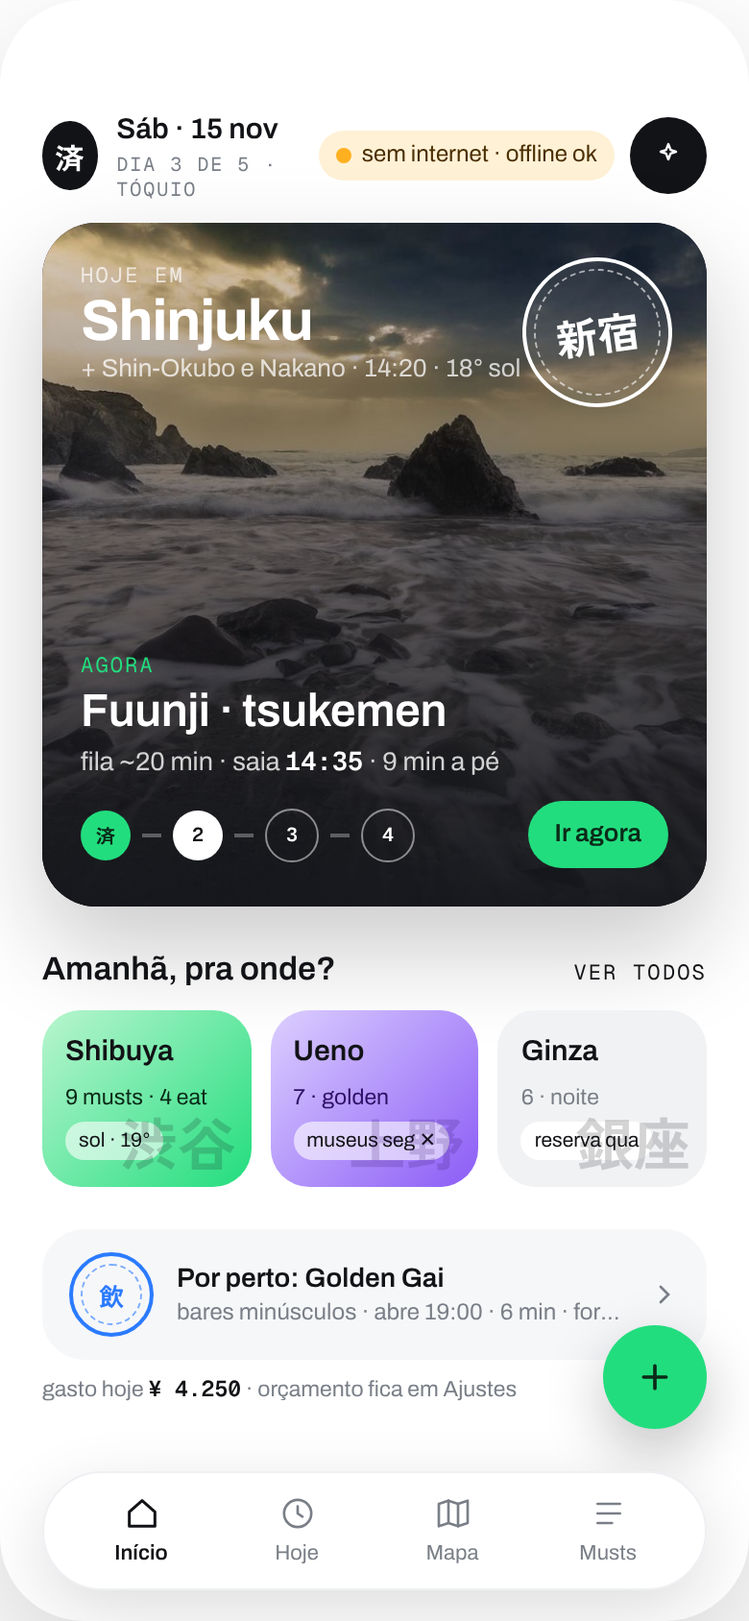
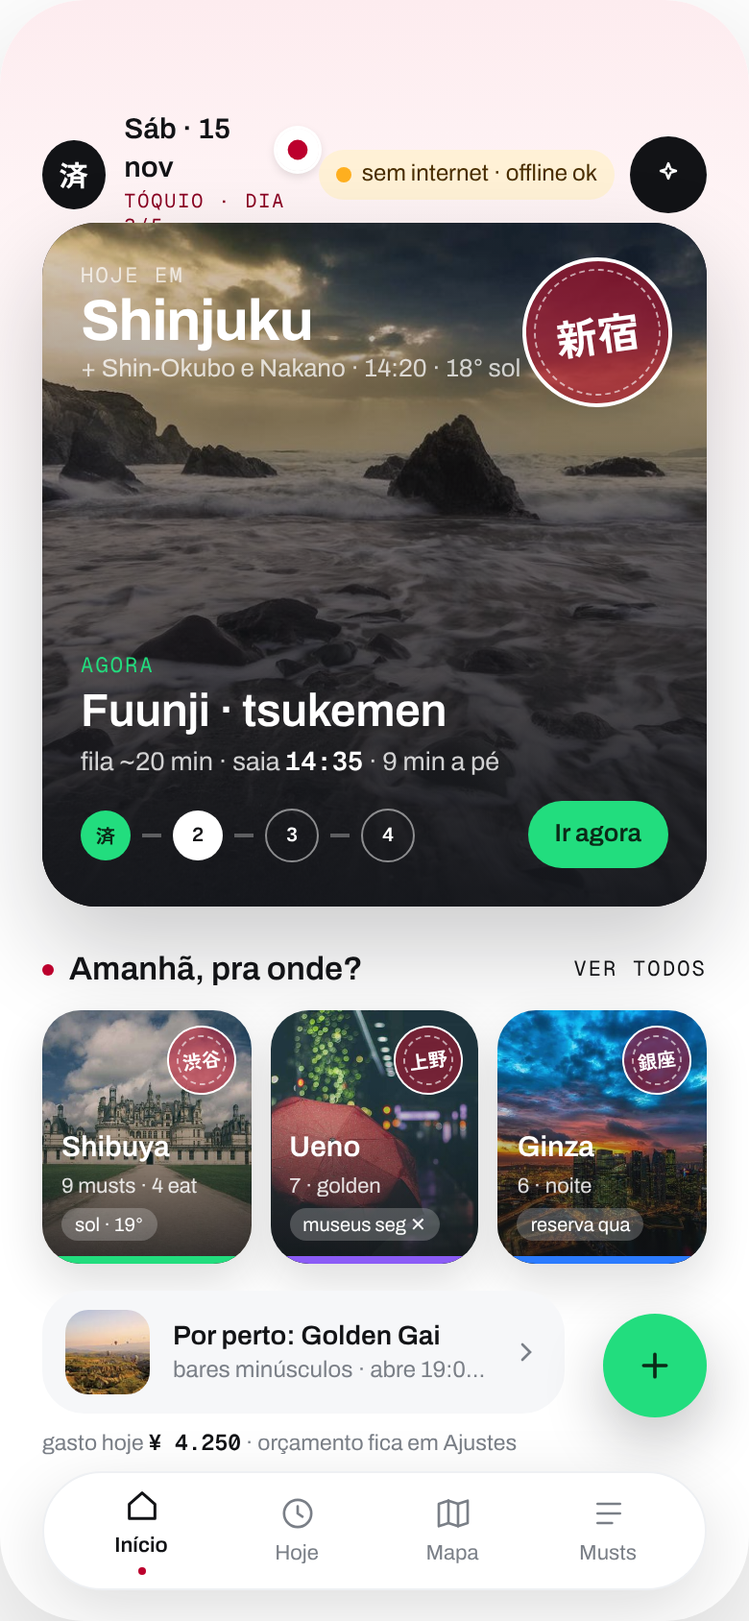
Design e prompts 19–20: fotos do Google, tema da viagem e premissa de dados
- CLAUDE.md: premissa "visual e econômico em dados" e tema da viagem (bandeira + tom do país).
- Prompt 18: card de bairro com foto; prompt 19 (foto do Google por lugar); prompt 20 (TripTheme).
- Telas Home6 (Japão) atualizada e Home6BH (Brasil).

Claude-Session: https://claude.ai/code/session_01JHY7upBQnLoCSWhe5K95pv

diff --git a/design/screens/Home6.html b/design/screens/Home6.html
@@ -2,7 +2,7 @@
 <html lang="pt-BR">
 <head>
 <meta charset="utf-8">
-<title>Must — Início (objetivo, por bairro)</title>
+<title>Must — Início · tema Japão</title>
 
 <link rel="stylesheet" href="must-light.css"><style>html,body{background:#EEF0F3}body{display:flex;justify-content:center;padding:24px 0}.app{box-shadow:0 30px 80px rgba(0,0,0,.18);border-radius:44px}</style>
 </head>
@@ -15,15 +15,17 @@ body{margin:0;background:#fff}
 .dayc{position:absolute;left:22px;right:22px;border-radius:28px;overflow:hidden;color:#fff;box-shadow:0 22px 50px rgba(18,19,22,.22)}
 .stp{width:26px;height:26px;border-radius:50%;display:flex;align-items:center;justify-content:center;font-family:'Geist Mono',monospace;font-size:10px;font-weight:700;flex-shrink:0}
 .nb{flex:1;border-radius:20px;padding:12px;display:flex;flex-direction:column;gap:6px;text-decoration:none;color:#121316;position:relative;overflow:hidden;min-height:92px;box-sizing:border-box}
+.nbp{flex:1;height:132px;border-radius:20px;position:relative;overflow:hidden;text-decoration:none;box-shadow:0 10px 24px rgba(18,19,22,.14)}
 .nb .k{position:absolute;right:8px;bottom:4px;font-family:'Zen Kaku Gothic New',sans-serif;font-weight:700;font-size:30px;opacity:.18}
 </style>
 
-<div class="app">
+<div class="app trip-jp">
+  <div class="trip-wash"></div>
   <!-- topo enxuto -->
   <div style="position:absolute;left:22px;right:22px;top:58px;display:flex;justify-content:space-between;align-items:center">
     <div style="display:flex;align-items:center;gap:10px">
       <div style="width:36px;height:36px;border-radius:50%;background:#121316;display:flex;align-items:center;justify-content:center"><span class="jp" style="color:#fff;font-size:15px;font-weight:700">済</span></div>
-      <div style="display:flex;flex-direction:column;gap:1px"><span style="font-size:15px;font-weight:600">Sáb · 15 nov</span><span class="micro" style="font-size:10px">dia 3 de 5 · Tóquio</span></div>
+      <div style="display:flex;flex-direction:column;gap:1px"><span style="font-size:15px;font-weight:600;display:flex;align-items:center;gap:6px">Sáb · 15 nov <svg class="flag" viewBox="0 0 22 22" aria-label="Japão"><rect width="22" height="22" fill="#fff"/><circle cx="11" cy="11" r="5.2" fill="#BC002D"/></svg></span><span class="micro" style="font-size:10px;color:var(--trip-ink)">Tóquio · dia 3/5</span></div>
     </div>
     <div style="display:flex;gap:8px;align-items:center">
       <span class="tag" style="background:#FFF1D6;color:#4A2E00"><span class="dot" style="background:#FFB020"></span>sem internet · offline ok</span>
@@ -36,7 +38,7 @@ body{margin:0;background:#fff}
     <span class="photo" style="background-image:url('https://picsum.photos/seed/must-shinjuku-night/800/700');filter:saturate(.8) contrast(1.05)"></span>
     <span style="position:absolute;inset:0;background:linear-gradient(180deg,rgba(21,23,28,.15) 0%,rgba(21,23,28,.55) 45%,rgba(21,23,28,.96) 100%)"></span>
     <!-- selo do bairro -->
-    <span class="stamp" style="position:absolute;right:18px;top:18px;width:74px;height:74px;color:#fff;font-size:22px;transform:rotate(-8deg);background:rgba(255,255,255,.08)">新宿</span>
+    <span class="stamp" style="position:absolute;right:18px;top:18px;width:74px;height:74px;color:#fff;font-size:22px;transform:rotate(-8deg);background:rgba(200,16,46,.55);border-color:#fff">新宿</span>
     <div style="position:absolute;left:20px;top:20px;display:flex;flex-direction:column;gap:2px">
       <span class="micro" style="color:rgba(255,255,255,.7)">Hoje em</span>
       <span style="font-size:30px;font-weight:700;letter-spacing:-.02em;line-height:1">Shinjuku</span>
@@ -61,25 +63,25 @@ body{margin:0;background:#fff}
   </div>
 
   <!-- bairros: planejar por região -->
-  <div style="position:absolute;left:22px;right:22px;top:494px;display:flex;justify-content:space-between;align-items:baseline"><span style="font-size:17px;font-weight:600">Amanhã, pra onde?</span><a href="Bairros.html" class="micro" style="text-decoration:none;color:#121316">ver todos</a></div>
+  <div style="position:absolute;left:22px;right:22px;top:494px;display:flex;justify-content:space-between;align-items:baseline"><span style="font-size:17px;font-weight:600;display:flex;align-items:center;gap:8px"><span style="width:6px;height:6px;border-radius:50%;background:var(--trip)"></span>Amanhã, pra onde?</span><a href="Bairros.html" class="micro" style="text-decoration:none;color:#121316">ver todos</a></div>
   <div style="position:absolute;left:22px;right:22px;top:526px;display:flex;gap:10px">
-    <a href="Bairros.html" class="nb" style="background:linear-gradient(135deg,#B9F5CF,#22DD7E)"><span class="k">渋谷</span><span style="font-size:15px;font-weight:600">Shibuya</span><span style="font-size:11.5px;color:#0B2A18">9 musts · 4 eat</span><span class="tag" style="align-self:flex-start;background:rgba(255,255,255,.6);font-size:10.5px;padding:3px 7px">sol · 19°</span></a>
-    <a href="Bairros.html" class="nb" style="background:linear-gradient(135deg,#DCCFFF,#8B5CF6)"><span class="k" style="color:#2E1065">上野</span><span style="font-size:15px;font-weight:600">Ueno</span><span style="font-size:11.5px;color:#2E1065">7 · golden</span><span class="tag" style="align-self:flex-start;background:rgba(255,255,255,.6);font-size:10.5px;padding:3px 7px">museus seg ✕</span></a>
-    <a href="Bairros.html" class="nb" style="background:#F1F2F4"><span class="k">銀座</span><span style="font-size:15px;font-weight:600">Ginza</span><span style="font-size:11.5px;color:#7A7F87">6 · noite</span><span class="tag" style="align-self:flex-start;background:#fff;font-size:10.5px;padding:3px 7px">reserva qua</span></a>
+    <a href="Bairros.html" class="nbp"><span class="photo" style="background-image:url('https://picsum.photos/seed/must-shibuya-crossing/400/500');filter:saturate(.9)"></span><span style="position:absolute;inset:0;background:linear-gradient(180deg,rgba(18,19,22,0) 30%,rgba(18,19,22,.82) 100%)"></span><span style="position:absolute;left:0;right:0;bottom:0;height:4px;background:#22DD7E"></span><span class="stamp" style="position:absolute;right:8px;top:8px;width:34px;height:34px;color:#fff;font-size:10px;border-width:1.8px;transform:rotate(-8deg);background:rgba(200,16,46,.5)">渋谷</span><span style="position:absolute;left:10px;right:8px;bottom:12px;display:flex;flex-direction:column;gap:2px;color:#fff"><span style="font-size:15px;font-weight:600">Shibuya</span><span style="font-size:11px;opacity:.85">9 musts · 4 eat</span><span class="tag" style="align-self:flex-start;background:rgba(255,255,255,.22);color:#fff;font-size:10px;padding:2px 7px;margin-top:3px">sol · 19°</span></span></a>
+    <a href="Bairros.html" class="nbp"><span class="photo" style="background-image:url('https://picsum.photos/seed/must-ueno-park/400/500');filter:saturate(.9)"></span><span style="position:absolute;inset:0;background:linear-gradient(180deg,rgba(18,19,22,0) 30%,rgba(18,19,22,.82) 100%)"></span><span style="position:absolute;left:0;right:0;bottom:0;height:4px;background:#8B5CF6"></span><span class="stamp" style="position:absolute;right:8px;top:8px;width:34px;height:34px;color:#fff;font-size:10px;border-width:1.8px;transform:rotate(-8deg);background:rgba(200,16,46,.5)">上野</span><span style="position:absolute;left:10px;right:8px;bottom:12px;display:flex;flex-direction:column;gap:2px;color:#fff"><span style="font-size:15px;font-weight:600">Ueno</span><span style="font-size:11px;opacity:.85">7 · golden</span><span class="tag" style="align-self:flex-start;background:rgba(255,255,255,.22);color:#fff;font-size:10px;padding:2px 7px;margin-top:3px">museus seg ✕</span></span></a>
+    <a href="Bairros.html" class="nbp"><span class="photo" style="background-image:url('https://picsum.photos/seed/must-ginza-street/400/500');filter:saturate(.9)"></span><span style="position:absolute;inset:0;background:linear-gradient(180deg,rgba(18,19,22,0) 30%,rgba(18,19,22,.82) 100%)"></span><span style="position:absolute;left:0;right:0;bottom:0;height:4px;background:#2B7BFF"></span><span class="stamp" style="position:absolute;right:8px;top:8px;width:34px;height:34px;color:#fff;font-size:10px;border-width:1.8px;transform:rotate(-8deg);background:rgba(200,16,46,.5)">銀座</span><span style="position:absolute;left:10px;right:8px;bottom:12px;display:flex;flex-direction:column;gap:2px;color:#fff"><span style="font-size:15px;font-weight:600">Ginza</span><span style="font-size:11px;opacity:.85">6 · noite</span><span class="tag" style="align-self:flex-start;background:rgba(255,255,255,.22);color:#fff;font-size:10px;padding:2px 7px;margin-top:3px">reserva qua</span></span></a>
   </div>
 
   <!-- uma linha de por perto -->
-  <a href="Descobrir.html" class="card" style="position:absolute;left:22px;right:22px;top:640px;padding:12px 14px;display:flex;align-items:center;gap:12px;text-decoration:none;color:#121316;background:#F6F7F9">
-    <span class="stamp" style="width:40px;height:40px;color:#2B7BFF;font-size:13px;flex-shrink:0">飲</span>
+  <a href="Descobrir.html" class="card" style="position:absolute;left:22px;top:672px;right:96px;padding:10px 12px;display:flex;align-items:center;gap:12px;text-decoration:none;color:#121316;background:#F6F7F9">
+    <span style="width:44px;height:44px;border-radius:12px;position:relative;overflow:hidden;flex-shrink:0"><span class="photo" style="background-image:url('https://picsum.photos/seed/must-goldengai/120/120')"></span></span>
     <div style="flex:1;min-width:0;display:flex;flex-direction:column;gap:1px"><span style="font-size:14px;font-weight:600">Por perto: Golden Gai</span><span style="font-size:12px;color:#7A7F87;white-space:nowrap;overflow:hidden;text-overflow:ellipsis">bares minúsculos · abre 19:00 · 6 min · fora do board</span></div>
     <svg aria-hidden="true" width="16" height="16" viewBox="0 0 24 24" fill="none" stroke="#7A7F87" stroke-width="2" stroke-linecap="round"><path d="M9 6l6 6-6 6"/></svg>
   </a>
-  <span style="position:absolute;left:22px;right:22px;top:716px;text-align:left;font-size:11.5px;color:#7A7F87;right:96px">gasto hoje <b class="mono" style="color:#121316">¥ 4.250</b> · orçamento fica em Ajustes</span>
+  <span style="position:absolute;left:22px;right:22px;top:744px;text-align:left;font-size:11.5px;color:#7A7F87;right:96px">gasto hoje <b class="mono" style="color:#121316">¥ 4.250</b> · orçamento fica em Ajustes</span>
 
-  <a href="ColarTexto.html" class="fab" aria-label="Adicionar" style="background:#22DD7E;bottom:100px"><svg aria-hidden="true" width="20" height="20" viewBox="0 0 24 24" fill="none" stroke="#0B2A18" stroke-width="2.2" stroke-linecap="round"><path d="M12 5v14M5 12h14"/></svg></a>
+  <a href="ColarTexto.html" class="fab" aria-label="Adicionar" style="background:#22DD7E;bottom:106px"><svg aria-hidden="true" width="20" height="20" viewBox="0 0 24 24" fill="none" stroke="#0B2A18" stroke-width="2.2" stroke-linecap="round"><path d="M12 5v14M5 12h14"/></svg></a>
 
   <nav class="tabs">
-    <a href="Home6.html" class="tab tab-on"><svg aria-hidden="true" width="20" height="20" viewBox="0 0 24 24" fill="none" stroke="currentColor" stroke-width="1.8" stroke-linecap="round" stroke-linejoin="round"><path d="M4 11l8-7 8 7v9H4z"/></svg>Início</a>
+    <a href="Home6.html" class="tab tab-on"><svg aria-hidden="true" width="20" height="20" viewBox="0 0 24 24" fill="none" stroke="currentColor" stroke-width="1.8" stroke-linecap="round" stroke-linejoin="round"><path d="M4 11l8-7 8 7v9H4z"/></svg>Início<span class="tdot"></span></a>
     <a href="Hoje.html" class="tab"><svg aria-hidden="true" width="20" height="20" viewBox="0 0 24 24" fill="none" stroke="currentColor" stroke-width="1.6" stroke-linecap="round" stroke-linejoin="round"><circle cx="12" cy="12" r="8.5"/><path d="M12 7.5V12l3 2"/></svg>Hoje</a>
     <a href="Mapa.html" class="tab"><svg aria-hidden="true" width="20" height="20" viewBox="0 0 24 24" fill="none" stroke="currentColor" stroke-width="1.6" stroke-linecap="round" stroke-linejoin="round"><path d="M3 6l6-2 6 2 6-2v14l-6 2-6-2-6 2z"/><path d="M9 4v14M15 6v14"/></svg>Mapa</a>
     <a href="Musts.html" class="tab"><svg aria-hidden="true" width="20" height="20" viewBox="0 0 24 24" fill="none" stroke="currentColor" stroke-width="1.6" stroke-linecap="round" stroke-linejoin="round"><path d="M5 6h14M5 12h14M5 18h9"/></svg>Musts</a>

diff --git a/design/screens/Home6BH.html b/design/screens/Home6BH.html
@@ -1,0 +1,92 @@
+<!doctype html>
+<html lang="pt-BR">
+<head>
+<meta charset="utf-8">
+<title>Must — Início · tema Brasil (BH)</title>
+
+<link rel="stylesheet" href="must-light.css"><style>html,body{background:#EEF0F3}body{display:flex;justify-content:center;padding:24px 0}.app{box-shadow:0 30px 80px rgba(0,0,0,.18);border-radius:44px}</style>
+</head>
+<body>
+
+
+<link rel="stylesheet" href="https://fonts.googleapis.com/css2?family=Archivo:wdth,wght@62..125,100..900&amp;family=Instrument+Serif:ital@0;1&amp;family=Geist+Mono:wght@400;600&amp;family=Zen+Kaku+Gothic+New:wght@500;700&amp;display=swap">
+<style>
+body{margin:0;background:#fff}
+.dayc{position:absolute;left:22px;right:22px;border-radius:28px;overflow:hidden;color:#fff;box-shadow:0 22px 50px rgba(18,19,22,.22)}
+.stp{width:26px;height:26px;border-radius:50%;display:flex;align-items:center;justify-content:center;font-family:'Geist Mono',monospace;font-size:10px;font-weight:700;flex-shrink:0}
+.nb{flex:1;border-radius:20px;padding:12px;display:flex;flex-direction:column;gap:6px;text-decoration:none;color:#121316;position:relative;overflow:hidden;min-height:92px;box-sizing:border-box}
+.nbp{flex:1;height:132px;border-radius:20px;position:relative;overflow:hidden;text-decoration:none;box-shadow:0 10px 24px rgba(18,19,22,.14)}
+.nb .k{position:absolute;right:8px;bottom:4px;font-family:'Zen Kaku Gothic New',sans-serif;font-weight:700;font-size:30px;opacity:.18}
+</style>
+
+<div class="app trip-br">
+  <div class="trip-wash"></div>
+  <!-- topo enxuto -->
+  <div style="position:absolute;left:22px;right:22px;top:58px;display:flex;justify-content:space-between;align-items:center">
+    <div style="display:flex;align-items:center;gap:10px">
+      <div style="width:36px;height:36px;border-radius:50%;background:#121316;display:flex;align-items:center;justify-content:center"><span class="jp" style="color:#fff;font-size:15px;font-weight:700">済</span></div>
+      <div style="display:flex;flex-direction:column;gap:1px"><span style="font-size:15px;font-weight:600;display:flex;align-items:center;gap:6px">Sáb · 7 nov <svg class="flag" viewBox="0 0 22 22" aria-label="Brasil"><rect width="22" height="22" fill="#009C3B"/><path d="M11 3.5 L 19.5 11 L 11 18.5 L 2.5 11 Z" fill="#FFDF00"/><circle cx="11" cy="11" r="4.4" fill="#002776"/><path d="M6.8 10.2 C 9.5 9.4, 12.8 9.8, 15.2 11.6" stroke="#fff" stroke-width=".9" fill="none"/></svg></span><span class="micro" style="font-size:10px;color:var(--trip-ink)">Belo Horizonte · sábado</span></div>
+    </div>
+    <div style="display:flex;gap:8px;align-items:center">
+      <span class="tag" style="background:#fff;border:1px solid #EEF0F3"><span class="dot" style="background:#22DD7E"></span>online</span>
+      <a href="Assistente.html" class="ic ic-dark" aria-label="Assistente"><svg aria-hidden="true" width="16" height="16" viewBox="0 0 24 24" fill="none" stroke="currentColor" stroke-width="1.8" stroke-linecap="round" stroke-linejoin="round"><path d="M12 3l1.8 4.6L18 9l-4.2 1.4L12 15l-1.8-4.6L6 9l4.2-1.4z"/></svg></a>
+    </div>
+  </div>
+
+  <!-- CARD DO DIA: o que fazer agora -->
+  <div class="dayc" style="top:116px;height:356px;background:#15171C">
+    <span class="photo" style="background-image:url('https://picsum.photos/seed/must-savassi/800/700');filter:saturate(.8) contrast(1.05)"></span>
+    <span style="position:absolute;inset:0;background:linear-gradient(180deg,rgba(21,23,28,.15) 0%,rgba(21,23,28,.55) 45%,rgba(21,23,28,.96) 100%)"></span>
+    <!-- selo do bairro -->
+    <span class="stamp" style="position:absolute;right:18px;top:18px;width:74px;height:74px;color:#fff;font-size:22px;transform:rotate(-8deg);background:rgba(0,105,42,.55);border-color:#fff"><span style="display:flex;flex-direction:column;align-items:center;gap:2px;font-family:Archivo;font-weight:800;letter-spacing:.06em"><span style="font-size:17px">SAV</span><span style="font-size:8px;letter-spacing:.2em">BH · 1897</span></span></span>
+    <div style="position:absolute;left:20px;top:20px;display:flex;flex-direction:column;gap:2px">
+      <span class="micro" style="color:rgba(255,255,255,.7)">Hoje em</span>
+      <span style="font-size:30px;font-weight:700;letter-spacing:-.02em;line-height:1">Savassi</span>
+      <span style="font-size:13px;color:rgba(255,255,255,.75)">+ Lourdes e Funcionários · 14:20 · 27° sol</span>
+    </div>
+    <div style="position:absolute;left:20px;right:20px;bottom:20px;display:flex;flex-direction:column;gap:12px">
+      <div style="display:flex;flex-direction:column;gap:4px">
+        <span class="micro" style="color:#22DD7E">Agora</span>
+        <span style="font-size:24px;font-weight:600;letter-spacing:-.01em;line-height:1.1">Café com Letras</span>
+        <span style="font-size:13.5px;color:rgba(255,255,255,.8)">livraria e café · saia <b class="mono" style="color:#fff">14:35</b> · 6 min a pé</span>
+      </div>
+      <!-- progresso em selos -->
+      <div style="display:flex;align-items:center;gap:6px">
+        <span class="stp" style="background:#22DD7E;color:#0B2A18;font-family:'Zen Kaku Gothic New'">済</span><span style="width:10px;height:2px;background:rgba(255,255,255,.3)"></span>
+        <span class="stp" style="background:#fff;color:#121316">2</span><span style="width:10px;height:2px;background:rgba(255,255,255,.3)"></span>
+        <span class="stp" style="border:1.5px solid rgba(255,255,255,.5);color:#fff">3</span><span style="width:10px;height:2px;background:rgba(255,255,255,.3)"></span>
+        <span class="stp" style="border:1.5px solid rgba(255,255,255,.5);color:#fff">4</span>
+        <span style="flex:1"></span>
+        <a href="GuiaBairro.html" class="pill pill-green" style="text-decoration:none;padding:9px 14px">Ir agora</a>
+      </div>
+    </div>
+  </div>
+
+  <!-- bairros: planejar por região -->
+  <div style="position:absolute;left:22px;right:22px;top:494px;display:flex;justify-content:space-between;align-items:baseline"><span style="font-size:17px;font-weight:600;display:flex;align-items:center;gap:8px"><span style="width:6px;height:6px;border-radius:50%;background:var(--trip)"></span>Amanhã, pra onde?</span><a href="Bairros.html" class="micro" style="text-decoration:none;color:#121316">ver todos</a></div>
+  <div style="position:absolute;left:22px;right:22px;top:526px;display:flex;gap:10px">
+    <a href="Bairros.html" class="nbp"><span class="photo" style="background-image:url('https://picsum.photos/seed/must-pampulha/400/500');filter:saturate(.9)"></span><span style="position:absolute;inset:0;background:linear-gradient(180deg,rgba(18,19,22,0) 30%,rgba(18,19,22,.82) 100%)"></span><span style="position:absolute;left:0;right:0;bottom:0;height:4px;background:#22DD7E"></span><span class="stamp" style="position:absolute;right:8px;top:8px;width:34px;height:34px;color:#fff;font-size:10px;border-width:1.8px;transform:rotate(-8deg);background:rgba(0,105,42,.5)">PAM</span><span style="position:absolute;left:10px;right:8px;bottom:12px;display:flex;flex-direction:column;gap:2px;color:#fff"><span style="font-size:15px;font-weight:600">Pampulha</span><span style="font-size:11px;opacity:.85">5 musts · Niemeyer</span><span class="tag" style="align-self:flex-start;background:rgba(255,255,255,.22);color:#fff;font-size:10px;padding:2px 7px;margin-top:3px">sol · 28°</span></span></a>
+    <a href="Bairros.html" class="nbp"><span class="photo" style="background-image:url('https://picsum.photos/seed/must-santatereza/400/500');filter:saturate(.9)"></span><span style="position:absolute;inset:0;background:linear-gradient(180deg,rgba(18,19,22,0) 30%,rgba(18,19,22,.82) 100%)"></span><span style="position:absolute;left:0;right:0;bottom:0;height:4px;background:#8B5CF6"></span><span class="stamp" style="position:absolute;right:8px;top:8px;width:34px;height:34px;color:#fff;font-size:10px;border-width:1.8px;transform:rotate(-8deg);background:rgba(0,105,42,.5)">STA</span><span style="position:absolute;left:10px;right:8px;bottom:12px;display:flex;flex-direction:column;gap:2px;color:#fff"><span style="font-size:15px;font-weight:600">Sta. Tereza</span><span style="font-size:11px;opacity:.85">4 · noite</span><span class="tag" style="align-self:flex-start;background:rgba(255,255,255,.22);color:#fff;font-size:10px;padding:2px 7px;margin-top:3px">show sex</span></span></a>
+    <a href="Bairros.html" class="nbp"><span class="photo" style="background-image:url('https://picsum.photos/seed/must-centrobh/400/500');filter:saturate(.9)"></span><span style="position:absolute;inset:0;background:linear-gradient(180deg,rgba(18,19,22,0) 30%,rgba(18,19,22,.82) 100%)"></span><span style="position:absolute;left:0;right:0;bottom:0;height:4px;background:#2B7BFF"></span><span class="stamp" style="position:absolute;right:8px;top:8px;width:34px;height:34px;color:#fff;font-size:10px;border-width:1.8px;transform:rotate(-8deg);background:rgba(0,105,42,.5)">CEN</span><span style="position:absolute;left:10px;right:8px;bottom:12px;display:flex;flex-direction:column;gap:2px;color:#fff"><span style="font-size:15px;font-weight:600">Centro</span><span style="font-size:11px;opacity:.85">6 · mercado</span><span class="tag" style="align-self:flex-start;background:rgba(255,255,255,.22);color:#fff;font-size:10px;padding:2px 7px;margin-top:3px">feira dom</span></span></a>
+  </div>
+
+  <!-- uma linha de por perto -->
+  <a href="Descobrir.html" class="card" style="position:absolute;left:22px;top:672px;right:96px;padding:10px 12px;display:flex;align-items:center;gap:12px;text-decoration:none;color:#121316;background:#F6F7F9">
+    <span style="width:44px;height:44px;border-radius:12px;position:relative;overflow:hidden;flex-shrink:0"><span class="photo" style="background-image:url('https://picsum.photos/seed/must-goldengai/120/120')"></span></span>
+    <div style="flex:1;min-width:0;display:flex;flex-direction:column;gap:1px"><span style="font-size:14px;font-weight:600">Por perto: Mercado Novo</span><span style="font-size:12px;color:#7A7F87;white-space:nowrap;overflow:hidden;text-overflow:ellipsis">bares e lojinhas · aberto · 9 min · no board</span></div>
+    <svg aria-hidden="true" width="16" height="16" viewBox="0 0 24 24" fill="none" stroke="#7A7F87" stroke-width="2" stroke-linecap="round"><path d="M9 6l6 6-6 6"/></svg>
+  </a>
+  <span style="position:absolute;left:22px;right:22px;top:744px;text-align:left;font-size:11.5px;color:#7A7F87;right:96px">gasto hoje <b class="mono" style="color:#121316">R$ 86</b> · orçamento fica em Ajustes</span>
+
+  <a href="ColarTexto.html" class="fab" aria-label="Adicionar" style="background:#22DD7E;bottom:106px"><svg aria-hidden="true" width="20" height="20" viewBox="0 0 24 24" fill="none" stroke="#0B2A18" stroke-width="2.2" stroke-linecap="round"><path d="M12 5v14M5 12h14"/></svg></a>
+
+  <nav class="tabs">
+    <a href="Home6.html" class="tab tab-on"><svg aria-hidden="true" width="20" height="20" viewBox="0 0 24 24" fill="none" stroke="currentColor" stroke-width="1.8" stroke-linecap="round" stroke-linejoin="round"><path d="M4 11l8-7 8 7v9H4z"/></svg>Início<span class="tdot"></span></a>
+    <a href="Hoje.html" class="tab"><svg aria-hidden="true" width="20" height="20" viewBox="0 0 24 24" fill="none" stroke="currentColor" stroke-width="1.6" stroke-linecap="round" stroke-linejoin="round"><circle cx="12" cy="12" r="8.5"/><path d="M12 7.5V12l3 2"/></svg>Hoje</a>
+    <a href="Mapa.html" class="tab"><svg aria-hidden="true" width="20" height="20" viewBox="0 0 24 24" fill="none" stroke="currentColor" stroke-width="1.6" stroke-linecap="round" stroke-linejoin="round"><path d="M3 6l6-2 6 2 6-2v14l-6 2-6-2-6 2z"/><path d="M9 4v14M15 6v14"/></svg>Mapa</a>
+    <a href="Musts.html" class="tab"><svg aria-hidden="true" width="20" height="20" viewBox="0 0 24 24" fill="none" stroke="currentColor" stroke-width="1.6" stroke-linecap="round" stroke-linejoin="round"><path d="M5 6h14M5 12h14M5 18h9"/></svg>Musts</a>
+  </nav>
+</div>
+
+</body>
+</html>

diff --git a/design/screens/must-light.css b/design/screens/must-light.css
@@ -54,3 +54,10 @@ a{color:#1E73FF}a:hover{color:#0F5AD6}
 .stamp::after{content:"";position:absolute;inset:4px;border-radius:50%;border:1px dashed currentColor;opacity:.6}
 .line-chip{display:inline-flex;align-items:center;gap:6px;border-radius:999px;padding:4px 10px 4px 4px;font-size:12px;font-weight:600;color:#121316;background:#fff;border:1px solid #EEF0F3}
 .line-chip i{width:20px;height:20px;border-radius:50%;display:inline-flex;align-items:center;justify-content:center;font-style:normal;font-family:'Geist Mono',monospace;font-size:10px;font-weight:700;color:#fff}
+/* tema da viagem: tom leve do país, sem trocar a identidade (verde/azul/tinta continuam) */
+.trip-jp{--trip:#BC002D;--trip-ink:#8A0021;--trip-soft:#FDECEF;--trip-soft2:#FFF6F7;--trip-stamp:#C8102E}
+.trip-br{--trip:#009C3B;--trip-ink:#00692A;--trip-soft:#E6F6EC;--trip-soft2:#FFF9DB;--trip-stamp:#00692A}
+.trip-wash{position:absolute;left:0;right:0;top:0;height:300px;background:linear-gradient(180deg,var(--trip-soft) 0%,var(--trip-soft2) 45%,rgba(255,255,255,0) 100%);pointer-events:none}
+.flag{width:22px;height:22px;border-radius:50%;overflow:hidden;box-shadow:0 0 0 1.5px #fff,0 2px 6px rgba(18,19,22,.18);flex-shrink:0;display:inline-block}
+.tab-on .tdot{display:block}
+.tdot{display:none;width:4px;height:4px;border-radius:50%;background:var(--trip);margin-top:1px}

diff --git a/CLAUDE.md b/CLAUDE.md
@@ -21,6 +21,15 @@ App iOS pessoal (um usuário: Vinicius) que transforma um board de "Musts" (Must
 - **Guia, não banco de dados** (prompt 18, 02/11): a Home mostra só o dia (bairro, agora, saia às) — orçamento vai pra Ajustes. Planejamento por **bairro + vizinhos** (`Area`, tabela curada com tempos de trem) e guia com deslocamentos entre paradas. **Resiliência é requisito**: nada de JSON decodificado em `body`, serviços fora do main, `NWPathMonitor`, timeouts curtos, circuit breaker, fila de saída offline, dia baixado pro offline. Visual: selo de estação por bairro, kanji grande, cor oficial das linhas.
 - **Importação/exportação** pelo JSON em `data/board.schema.json`. Seeds em `data/seed-bh.json` e `data/seed-jp.json` (coordenadas `approx: true` são chute — resolver no Places na primeira sincronização).
 
+## Premissa: visual e econômico em dados (03/11/2026, pedido do Vinicius)
+O app tem que ser **bem visual** (foto em todo lugar que mostra um lugar ou bairro) e ao mesmo tempo **gastar o mínimo de internet**. Valem pra toda tela e todo serviço, novo ou existente:
+- **Cache primeiro, sempre.** Toda leitura mostra o que está no aparelho na hora e atualiza em segundo plano (stale-while-revalidate). Nenhuma tela espera a rede pra aparecer.
+- **Imagem: uma por lugar, baixada uma vez.** Foto principal em 800 px JPEG/HEIC (qualidade 0,7), miniatura gerada no aparelho (240 px) — nunca uma segunda chamada. Cache em disco com teto (300 MB, LRU) e validade de 30 dias; `URLCache` pra respostas GET.
+- **Pré-baixar só no Wi-Fi** (e com o dia aceito, o bairro escolhido ou o board novo); no celular, só o que está na tela. Respeitar **Modo de Pouco Dados** (`allowsConstrainedNetworkAccess`): nele, nada de pré-download nem foto nova fora do Lugar aberto.
+- **Pedir só os campos usados** (field masks do Google), agrupar o que dá numa chamada, deduplicar requisições em voo, nunca repetir a mesma chamada na mesma sessão.
+- **Offline é estado normal, não erro:** chip "sem internet · offline ok", fila de saída pro que precisa de rede, e o dia aceito 100% utilizável sem conexão.
+- **Medir:** Ajustes › Dados mostra MB usados no mês (celular × Wi-Fi), cache em disco e cota do Google; QA confere que abrir o app com cache quente gasta 0 KB.
+
 ## Design (v5, tema claro) — fonte da verdade em `design/`
 - Telas: `design/screens/*.png` (render) e `*.html` (HTML de referência, abrir no navegador; os links entre telas funcionam). `must-light.css` tem os tokens.
 - Fundo branco `#FFFFFF`, tinta `#121316`, secundário `#7A7F87`, superfícies `#F1F2F4` / `#F6F7F9`, borda `#EEF0F3`.
@@ -41,4 +50,10 @@ App iOS pessoal (um usuário: Vinicius) que transforma um board de "Musts" (Must
 - Commits pequenos, mensagem em português, um prompt = um ou mais commits.
 
 ## Como o trabalho está dividido
-Os prompts em `prompts/` são executados em ordem (01 → 18; a rodada atual é o `prompts/18-guia-bairro-resiliencia.md`). Cada um diz o que entregar e como verificar. Antes de cada prompt, olhar os PNGs das telas citadas.
+Os prompts em `prompts/` são executados em ordem (01 → 20; a rodada atual é o `prompts/18-guia-bairro-resiliencia.md`, depois 19 fotos e 20 tema da viagem). Cada um diz o que entregar e como verificar. Antes de cada prompt, olhar os PNGs das telas citadas.
+
+## Tema da viagem (03/11/2026, pedido do Vinicius) — prompt 20
+- Ao entrar numa viagem/região, o app ganha a **bandeira do país** (círculo 22 pt ao lado da data, vetor, offline) e um **tom leve** do país: lavado no topo das telas principais, tinta dos selos, ponto dos títulos de seção e da aba ativa, rótulo da cidade.
+- Tokens por país em `TripTheme` (JP vermelho #BC002D / selo #C8102E; BR verde #009C3B / amarelo claro), derivados de `City.country`.
+- **Identidade não muda:** botões verde #22DD7E, links azul #2B7BFF, tinta #121316, cores das listas, linhas de trem e pinos do mapa ficam iguais.
+- Referência: `design/screens/Home6.png` (Japão) e `Home6BH.png` (Brasil).

diff --git a/prompts/19-fotos-google.md b/prompts/19-fotos-google.md
@@ -1,0 +1,21 @@
+Leia `CLAUDE.md`. Pedido do Vinicius (03/11): **foto de verdade de cada lugar**. Testado em 03/11 com a `GOOGLE_PLACES_KEY` do projeto: Text Search IDs Only → Place Details `id,photos` (10 fotos pro Fuunji) → `/media?maxWidthPx=800&skipHttpRedirect=true` → JPEG 800×1067 da **fachada certa** (placa FUUNJI, cortina 風雲児). A integração já existe (`Must/Services/Google/GooglePlacePhotos.swift`), mas hoje só entra quando o Wikimedia não acha nada — e o Wikimedia quase sempre acha *alguma coisa* que não é o lugar.
+
+Siga a seção **Premissa: visual e econômico em dados** do `CLAUDE.md` (cache primeiro, uma foto por lugar, pré-download só no Wi-Fi, Modo de Pouco Dados).
+
+## Mudança de prioridade
+1. **Lugar com `placeId` → foto do Google primeiro.** Wikimedia Commons fica pra: bairros (card do dia, Bairros), listas (hub Musts), lugares sem `placeId` e como reserva se o Google falhar/sem cota. Ajuste `PlaceView.swift:171` e onde mais o hero é escolhido; atualize o texto do `ApiBudget` (".placePhotos: 1 mil grátis/mês · foto principal de cada lugar").
+2. **Onde a foto aparece** (sempre a mesma foto principal do lugar, do cache): hero do Lugar; miniatura na Lista, no Board, no Guia do bairro, na Proposta/Hoje, no card "Agora" da Home; pin selecionado do Mapa (card inferior); Adicionar por link/Texto/Nome antes de salvar. Galeria de até **5 fotos** só no Lugar, carregada quando o usuário desliza (sob demanda).
+3. **Custo** (cota grátis: Details Essentials 10 mil/mês; Place Photos 1 mil/mês):
+   - `photos` vem no mesmo Place Details que já buscamos (Essentials) — não faça uma chamada só pra isso; acrescente `photos` ao field mask da resolução/sync existente e guarde os `photos[].name` (+ autor) no `Place` (ex.: `photoRefs`).
+   - **Uma** chamada de `/media` por lugar pra foto principal, `maxWidthPx=800` (hero) e gere localmente a miniatura (240 px) a partir dela — nunca uma segunda chamada pra thumb.
+   - Cache em disco de 30 dias (`Caches/must-place-photos`), e **pré-baixar** a foto principal dos lugares do dia aceito e do bairro escolhido (offline do prompt 18); o resto, só quando aparecer na tela.
+   - Os nomes de foto expiram: se `/media` responder 400/404, refaz o Details (só `photos`) uma vez e tenta de novo.
+   - `ApiBudget`: teto diário de 60 em `placePhotos`; acima de 80% do mês, só hero do Lugar (sem miniaturas novas).
+4. **Crédito obrigatório**: chip "foto · Google · <autor>" no hero e na galeria (vem de `authorAttributions[0].displayName`; tocar abre `authorAttributions[0].uri`). Nas miniaturas, sem chip (o crédito está no Lugar).
+5. **Sync em lote**: botão em Ajustes › Dados "Baixar fotos dos lugares" (com contador "84 de 130 · usa 84 da cota de 1.000 do mês"), em `Task` de baixa prioridade, 4 por vez, pausável, só em Wi-Fi por padrão.
+6. Tratamento visual: hero com a foto **sem tingir** (o gradiente da cor do Must fica só como faixa de 30% embaixo, pra legibilidade); miniaturas com cantos 14 pt; lugares sem foto continuam com o gradiente da cor.
+
+## Verificar
+- Fuunji, Udatsu, Mercado Central e Museu Inimá abrem com a foto do Google certa e crédito; um lugar sem `placeId` mostra Commons ou gradiente.
+- Contador do `ApiBudget` sobe 1 por lugar novo (não 2), e zero ao reabrir (cache).
+- Modo avião: fotos já vistas e as do dia aceito aparecem; as outras mostram o gradiente sem travar.

diff --git a/prompts/18-guia-bairro-resiliencia.md b/prompts/18-guia-bairro-resiliencia.md
@@ -2,6 +2,8 @@ Leia `CLAUDE.md` e as telas `design/screens/Home6.png`, `Bairros.png`, `GuiaBair
 
 Faça nesta ordem. **A parte A é pré-requisito de tudo**: não comece B antes de medir e corrigir os travamentos.
 
+> **Premissa nova (03/11): visual e econômico em dados** — leia a seção no `CLAUDE.md` e aplique em tudo desta rodada.
+
 ## A — Travamentos e resiliência (medir → corrigir → medir)
 0. **Medir antes**: rode no iPhone com Instruments (Time Profiler + Hangs + SwiftUI) abrindo Início, Mapa, Lista, Lugar e voltando pro app depois de 20 min em background; também com Network Link Conditioner em "Very Bad Network" e em "100% Loss". Salve os números (hangs > 250 ms, tempo de abertura, frames) em `QA.md` › Performance.
 1. **JSON decodificado a cada leitura** (causa provável nº 1): `Place.hours`, `Place.extra`, `Place.tickets` e `TripInfo.cities` decodificam `Data` toda vez que são lidos, e Home/Mapa/Lista chamam `openState` pra todos os lugares a cada redesenho. → Cache por objeto (`@Transient` com o valor decodificado + invalidação no `set`), **ou** pré-computar campos derivados na escrita: `opensAtToday`, `closesAtToday`, `weekSchedule` compacto, `kind` e `area` como colunas simples. Nunca decodificar JSON dentro de `body`.
@@ -20,8 +22,8 @@ Faça nesta ordem. **A parte A é pré-requisito de tudo**: não comece B antes 
 
 ## B — Início objetivo (`Home6.png`)
 9. **Orçamento sai da Home**: vai pra Ajustes › Dia (meta diária, exceções) e Viagem. Na Home fica só uma linha discreta "gasto hoje ¥ X".
-10. **Card do dia** (um só, grande): foto do bairro do dia (Wikimedia/Place Photo do ponto mais famoso, escurecida), "Hoje em **Shinjuku**" + vizinhos + hora + tempo, **selo do bairro** (ver D), e o bloco **Agora**: a parada atual/próxima com o essencial (fila, saia às, minutos) + progresso do dia em selos (済 / atual / próximas) + botão verde "Ir agora" (abre Como chegar). Sem dia montado: "Hoje, pra onde?" com os 3 bairros com mais musts abertos agora e o botão "Montar por bairro".
-11. **Amanhã, pra onde?**: 3 cards de bairro (cor do que domina, kanji grande ao fundo, contagem, um chip de contexto: tempo, golden, "museus seg ✕", reserva). "ver todos" → Bairros.
+10. **Card do dia** (um só, grande): foto do bairro do dia (Place Photo do ponto mais famoso do bairro, escurecida; ver prompt 19 e a premissa de dados do `CLAUDE.md`), "Hoje em **Shinjuku**" + vizinhos + hora + tempo, **selo do bairro** (ver D), e o bloco **Agora**: a parada atual/próxima com o essencial (fila, saia às, minutos) + progresso do dia em selos (済 / atual / próximas) + botão verde "Ir agora" (abre Como chegar). Sem dia montado: "Hoje, pra onde?" com os 3 bairros com mais musts abertos agora e o botão "Montar por bairro".
+11. **Amanhã, pra onde?**: 3 cards de bairro **com foto** (a mesma foto do bairro, do cache; escurecida embaixo), selo do bairro no canto, nome, contagem, um chip de contexto (tempo, golden, "museus seg ✕", reserva) e uma faixa de 4 pt na cor do que domina. "ver todos" → Bairros. Foto do bairro = foto principal do lugar mais bem avaliado do bairro no board, escolhida uma vez e guardada no `Area` (`heroPhotoRef`); sem lugar com foto, Commons por coordenada.
 12. Uma linha de "Por perto" (prompt 14) e o FAB verde "+" que abre Adicionar (com Link / Texto / Nome).
 
 ## C — Planejar por bairro e guiar (`Bairros.png`, `GuiaBairro.png`)

diff --git a/prompts/20-tema-da-viagem.md b/prompts/20-tema-da-viagem.md
@@ -1,0 +1,21 @@
+Leia `CLAUDE.md` e as telas `design/screens/Home6.png` (Japão) e `Home6BH.png` (Brasil). Pedido do Vinicius (03/11): **bandeira do país da viagem** e um **tom leve do país** em alguns itens, pra dar clima, **sem perder a identidade** do Must.
+
+## Regras
+1. `TripTheme` por região/país, no design system (`Must/DesignSystem/TripTheme.swift`), injetado no ambiente pelo `RegionStore` (troca junto com a região, com animação de 0,4 s):
+   - **Japão**: `trip #BC002D` (vermelho da bandeira), `tripInk #8A0021`, `tripSoft #FDECEF`, `tripSoft2 #FFF6F7`, `stampInk #C8102E` (o vermelho dos carimbos de estação).
+   - **Brasil**: `trip #009C3B`, `tripInk #00692A`, `tripSoft #E6F6EC`, `tripSoft2 #FFF9DB` (verde → amarelo bem claro), `stampInk #00692A`.
+   - Tabela aberta pra outros países (bandeira + 4 tons), escolhida pelo país da cidade do dia (`City.country`, ISO 3166).
+2. **Onde o tom entra** (e só aí):
+   - **Lavado no topo** das telas principais (Início, Hoje, Guia, Musts, Viagem): gradiente vertical `tripSoft → tripSoft2 → transparente` em 300 pt, atrás de tudo.
+   - **Selos** (`StationStamp`): tinta = `stampInk` (Japão vermelho; Brasil verde). No card do dia o selo ganha fundo `stampInk` a 55%.
+   - **Rótulo da cidade/dia** no topo (micro) em `tripInk`.
+   - **Ponto** antes dos títulos de seção e **ponto da aba ativa** da tab bar em `trip`.
+   - Coleção de selos na Viagem com a borda em `trip`.
+3. **Onde NÃO entra**: botões primários (continuam verde `#22DD7E`), links e seleção (azul `#2B7BFF`), texto (tinta `#121316`), cores das listas Must, cores das linhas de trem, pinos do mapa. A identidade não muda; muda o clima.
+4. **Bandeira**: círculo 22 pt ao lado da data no topo do Início (e na Viagem, no card de cada trecho de cidade), desenhada como vetor no app (não emoji — consistência), com contorno branco de 1,5 pt e sombra leve. Japão: disco vermelho em branco. Brasil: versão simplificada (verde, losango amarelo, círculo azul com faixa branca). Ela não precisa de rede.
+5. **Selo do Brasil**: sem kanji — sigla do bairro em Archivo 800 (SAV, PAM, STA, CEN…) com uma linha pequena "BH · 1897" (ano de fundação da cidade); o `Area` ganha `stampText` e `stampSub` opcionais (no Japão: kanji do bairro).
+6. Dark mode não existe; a lavagem respeita o "Reduzir transparência" (vira cor sólida `tripSoft2` em 120 pt).
+
+## Verificar
+- Trocar a região em Ajustes › Região muda bandeira, lavado, selos e pontos — e **nada** dos botões, links, listas e mapa.
+- Prints de Início, Hoje e Guia em JP e BH no `scripts/qa-screens.sh`, comparados com `Home6.png` / `Home6BH.png`.

diff --git a/design/README.md b/design/README.md
@@ -48,3 +48,4 @@
 | Regras da volta | ComprasRegras | Compras | 17 |
 
 Fluxo principal: Início → Montar → Proposta → (Trocar) → Hoje → Lugar → Gasto (済) → Hoje. Mapa acompanha o Hoje. Musts → Lista → Lugar é o lado "catálogo". Nova lista → Adicionar lugares e Adicionar por link alimentam o board.
+| 20 | Tema da viagem (bandeira + tom) | `Home6.png` (JP) · `Home6BH.png` (BR) |
